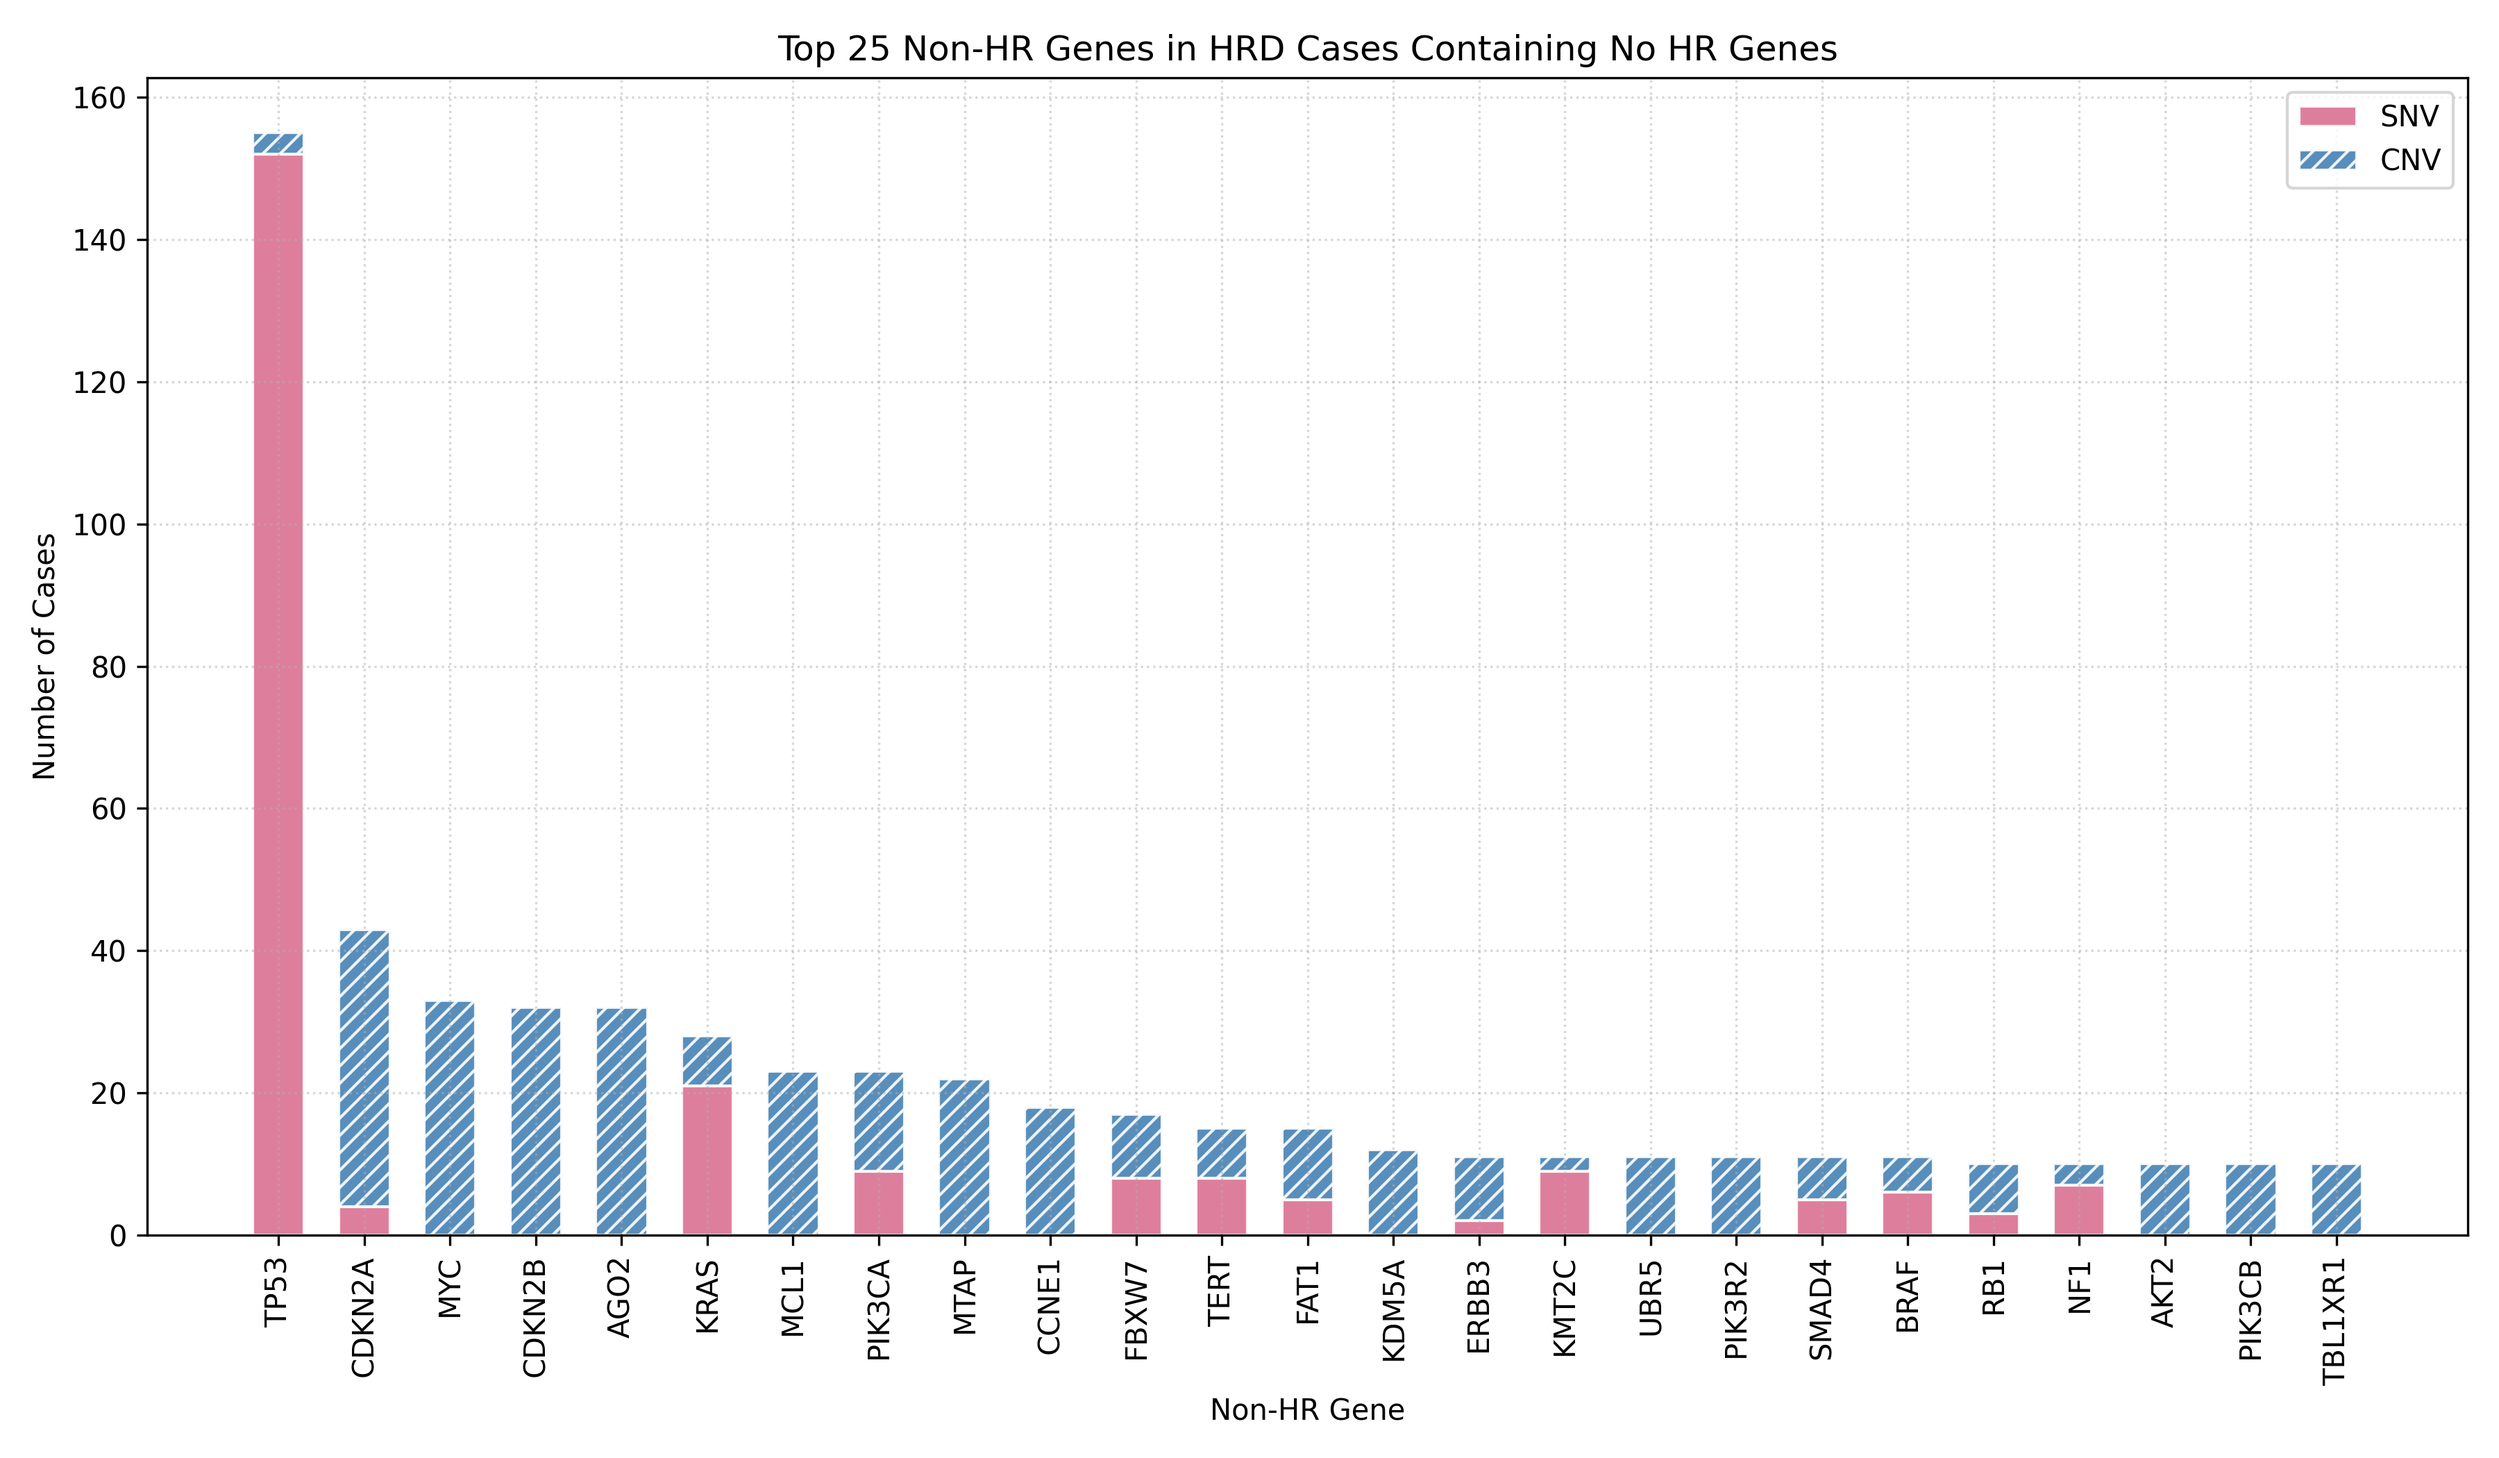
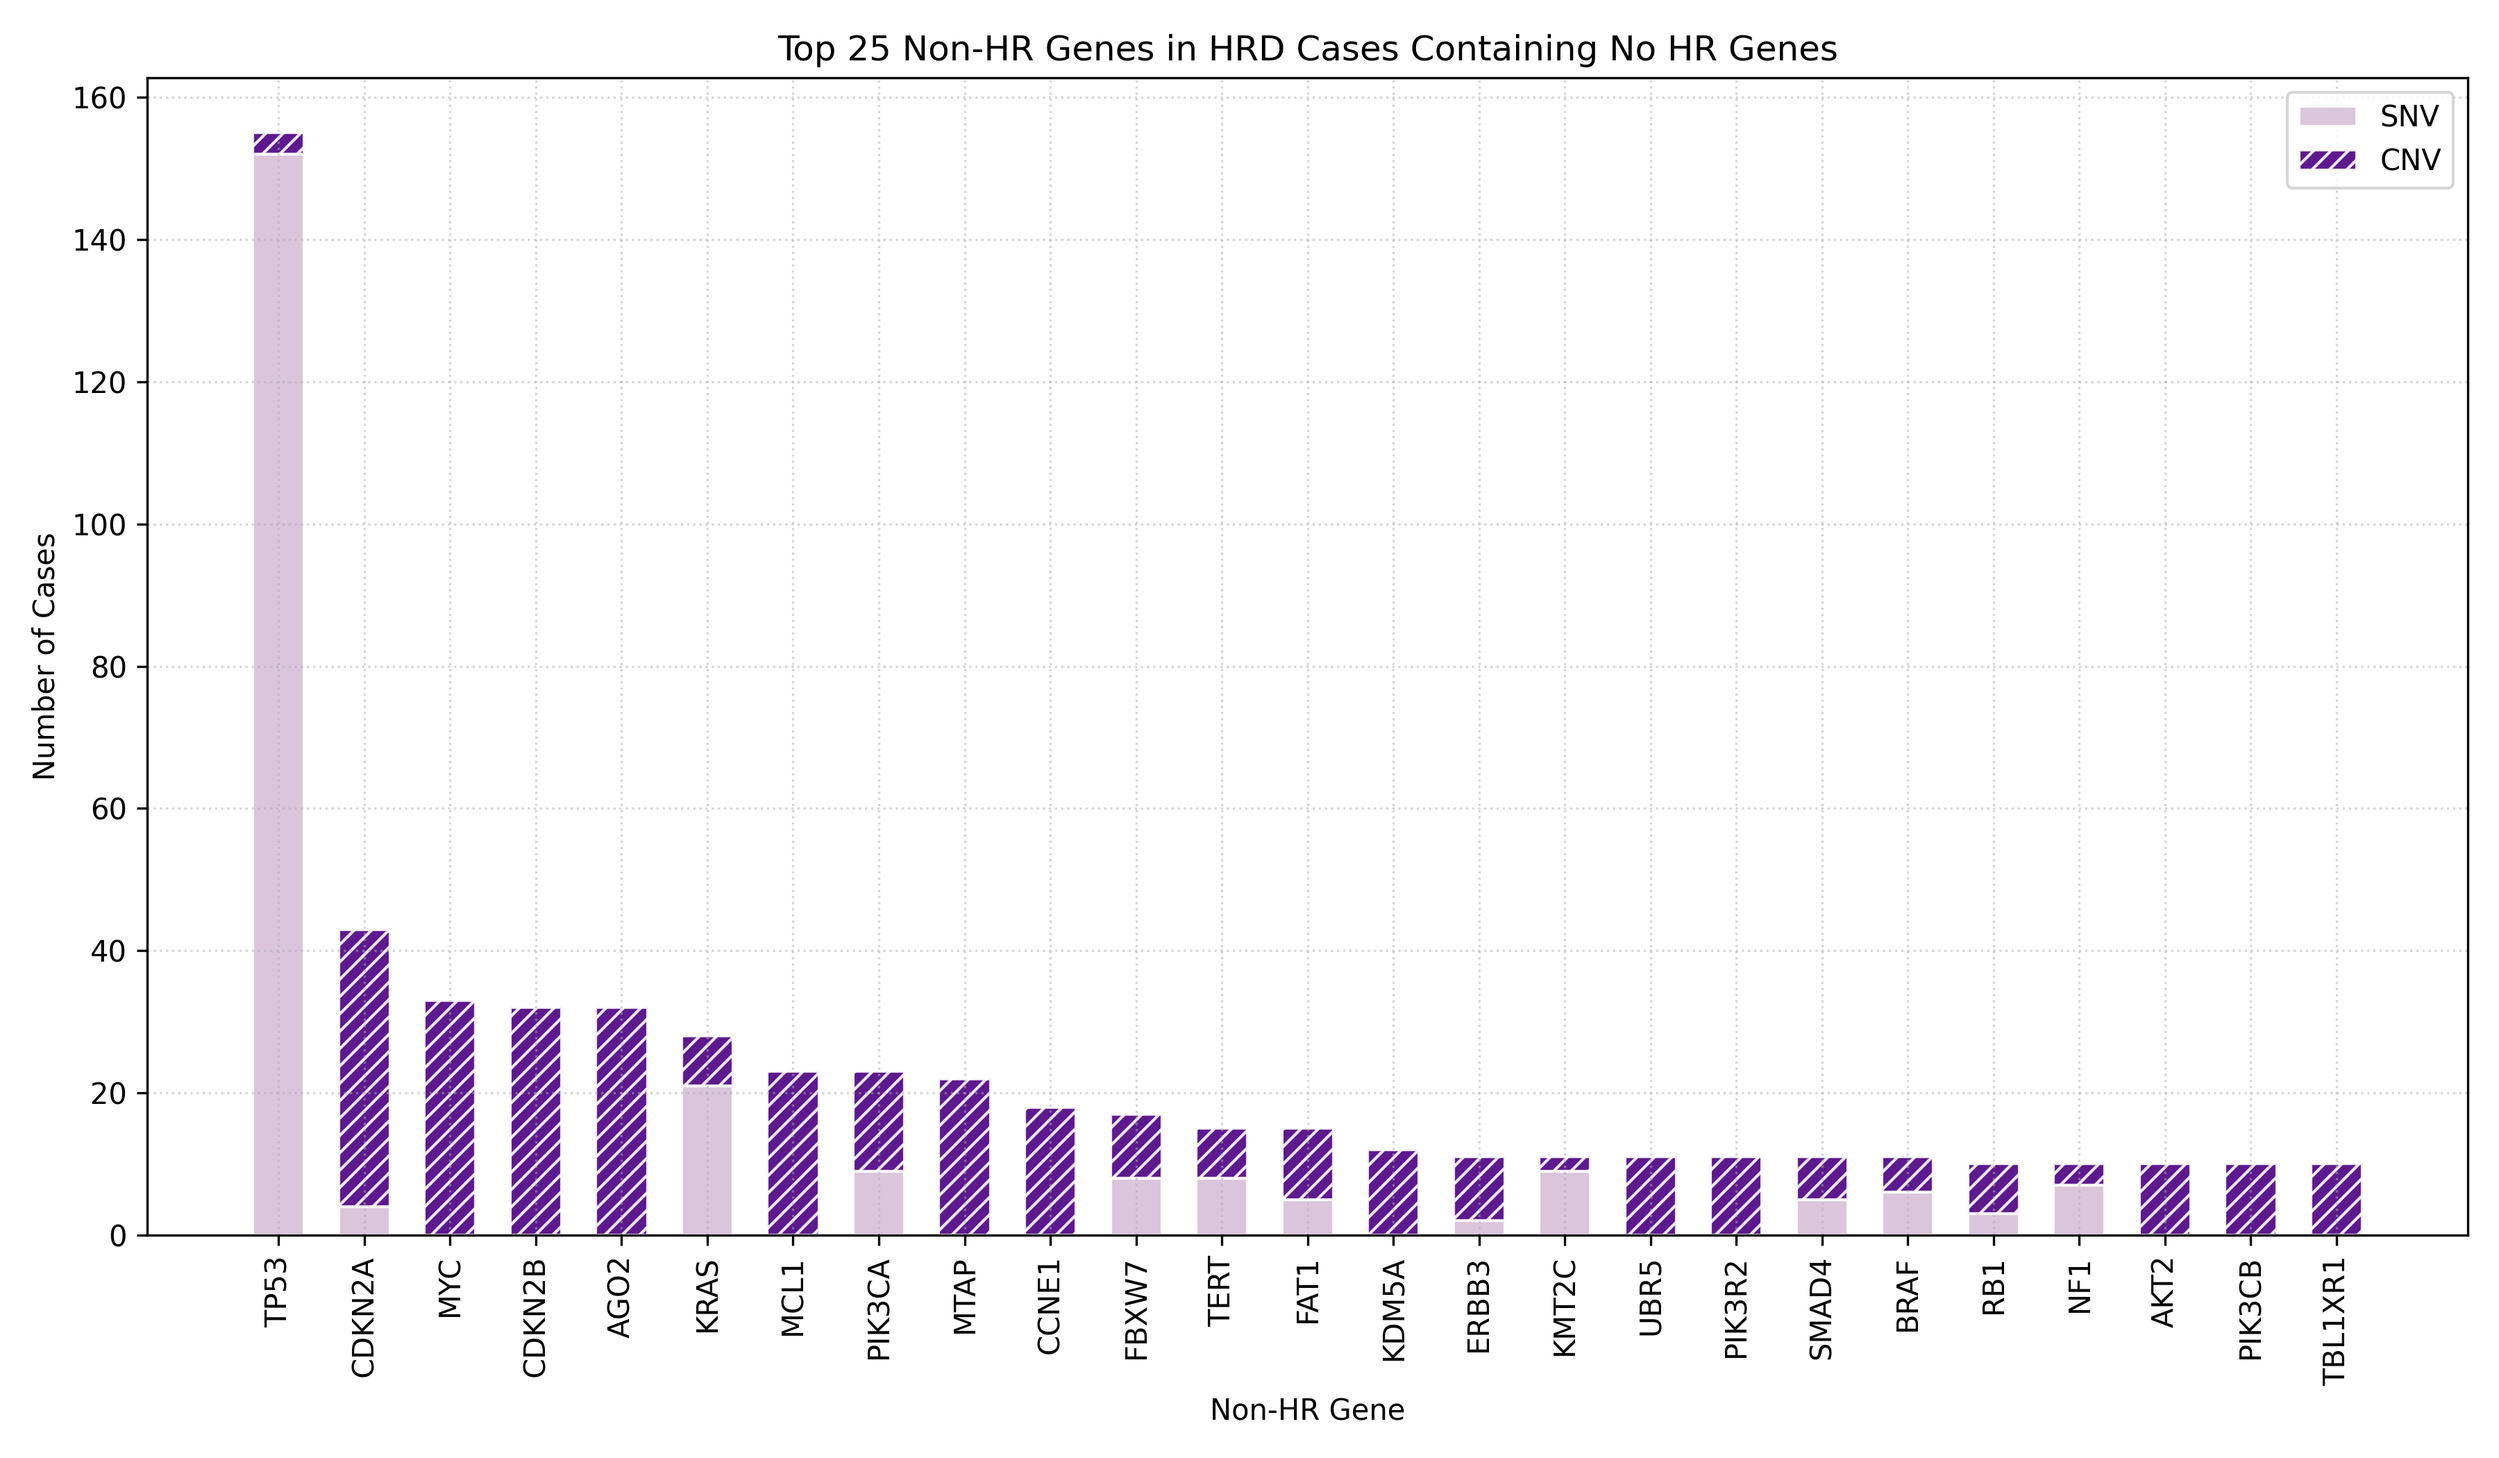
Edit plots

Changed region(s): [[0.0933, 0.0929, 0.9644, 0.8667], [0.9022, 0.0619, 0.9644, 0.1238]]

diff --git a/3_dataVisualization/hr_genes/combine_gene_by_status.py b/3_dataVisualization/hr_genes/combine_gene_by_status.py
@@ -33,11 +33,11 @@ def plot_combine(csv1, csv2, genes):
     x = np.arange(len(genes)) * 1.5
     plt.figure(figsize=(12,7))
 
-    plt.bar(x - 0.3, plot_df["SNV_HRD"], 0.6, color="palevioletred", edgecolor="white", alpha=0.9, label="HRD SNV")
-    plt.bar(x - 0.3, plot_df["CNV_HRD"], 0.6, bottom=plot_df["SNV_HRD"], color="palevioletred", edgecolor="white", alpha=0.9, hatch="////", label="HRD CNV")
+    plt.bar(x - 0.3, plot_df["SNV_HRD"], 0.6, color="thistle", edgecolor="white", alpha=0.9, label="HRD SNV")
+    plt.bar(x - 0.3, plot_df["CNV_HRD"], 0.6, bottom=plot_df["SNV_HRD"], color="thistle", edgecolor="white", alpha=0.9, hatch="////", label="HRD CNV")
 
-    plt.bar(x + 0.3, plot_df["SNV_HRP"], 0.6, color="steelblue", edgecolor="white", alpha=0.9, label="HRP SNV")
-    plt.bar(x + 0.3, plot_df["CNV_HRP"], 0.6, bottom=plot_df["SNV_HRP"], color="steelblue", edgecolor="white", alpha=0.9, hatch="////", label="HRP CNV")
+    plt.bar(x + 0.3, plot_df["SNV_HRP"], 0.6, color="indigo", edgecolor="white", alpha=0.9, label="HRP SNV")
+    plt.bar(x + 0.3, plot_df["CNV_HRP"], 0.6, bottom=plot_df["SNV_HRP"], color="indigo", edgecolor="white", alpha=0.9, hatch="////", label="HRP CNV")
 
     plt.xticks(x, genes, rotation=90)
     plt.ylabel("Number of Cases")
@@ -51,5 +51,4 @@ def plot_combine(csv1, csv2, genes):
 
 # Test run: HRD cases against HR genes
 genes = ["BRCA1","BRCA2","BRIP1","PALB2","RAD51","RAD51C","RAD51D","RAD50","MRE11","NBN","ATM","ATR","CHEK1","CHEK2","BARD1","FANCA","FANCB","FANCC","FANCD1","FANCD2","FANCE","FANCF","FANCG","FANCI","FANCJ","FANCL","FANCM","BLM","WRN","ERCC1","ERCC4","XPF","PTEN"]
-
 plot_combine("summary_hrd.csv", "summary_hrp.csv", genes)

diff --git a/3_dataVisualization/hr_genes/nonHR_genes.py b/3_dataVisualization/hr_genes/nonHR_genes.py
@@ -47,8 +47,8 @@ def plot_nonhr(csv_hrd, hr_genes, top_n=25):
    x = np.arange(len(table))
    plt.figure(figsize=(12, 7))
 
-   plt.bar(x, table["SNV"], 0.6, color="palevioletred", edgecolor="white", alpha=0.9, label="SNV")
-   plt.bar(x, table["CNV"], 0.6, bottom=table["SNV"], color="steelblue", edgecolor="white", alpha=0.9, hatch="////", label="CNV")
+   plt.bar(x, table["SNV"], 0.6, color="thistle", edgecolor="white", alpha=0.9, label="SNV")
+   plt.bar(x, table["CNV"], 0.6, bottom=table["SNV"], color="indigo", edgecolor="white", alpha=0.9, hatch="////", label="CNV")
    
    plt.xticks(x, table["Gene"], rotation=90)
    plt.xlabel("Non-HR Gene")
